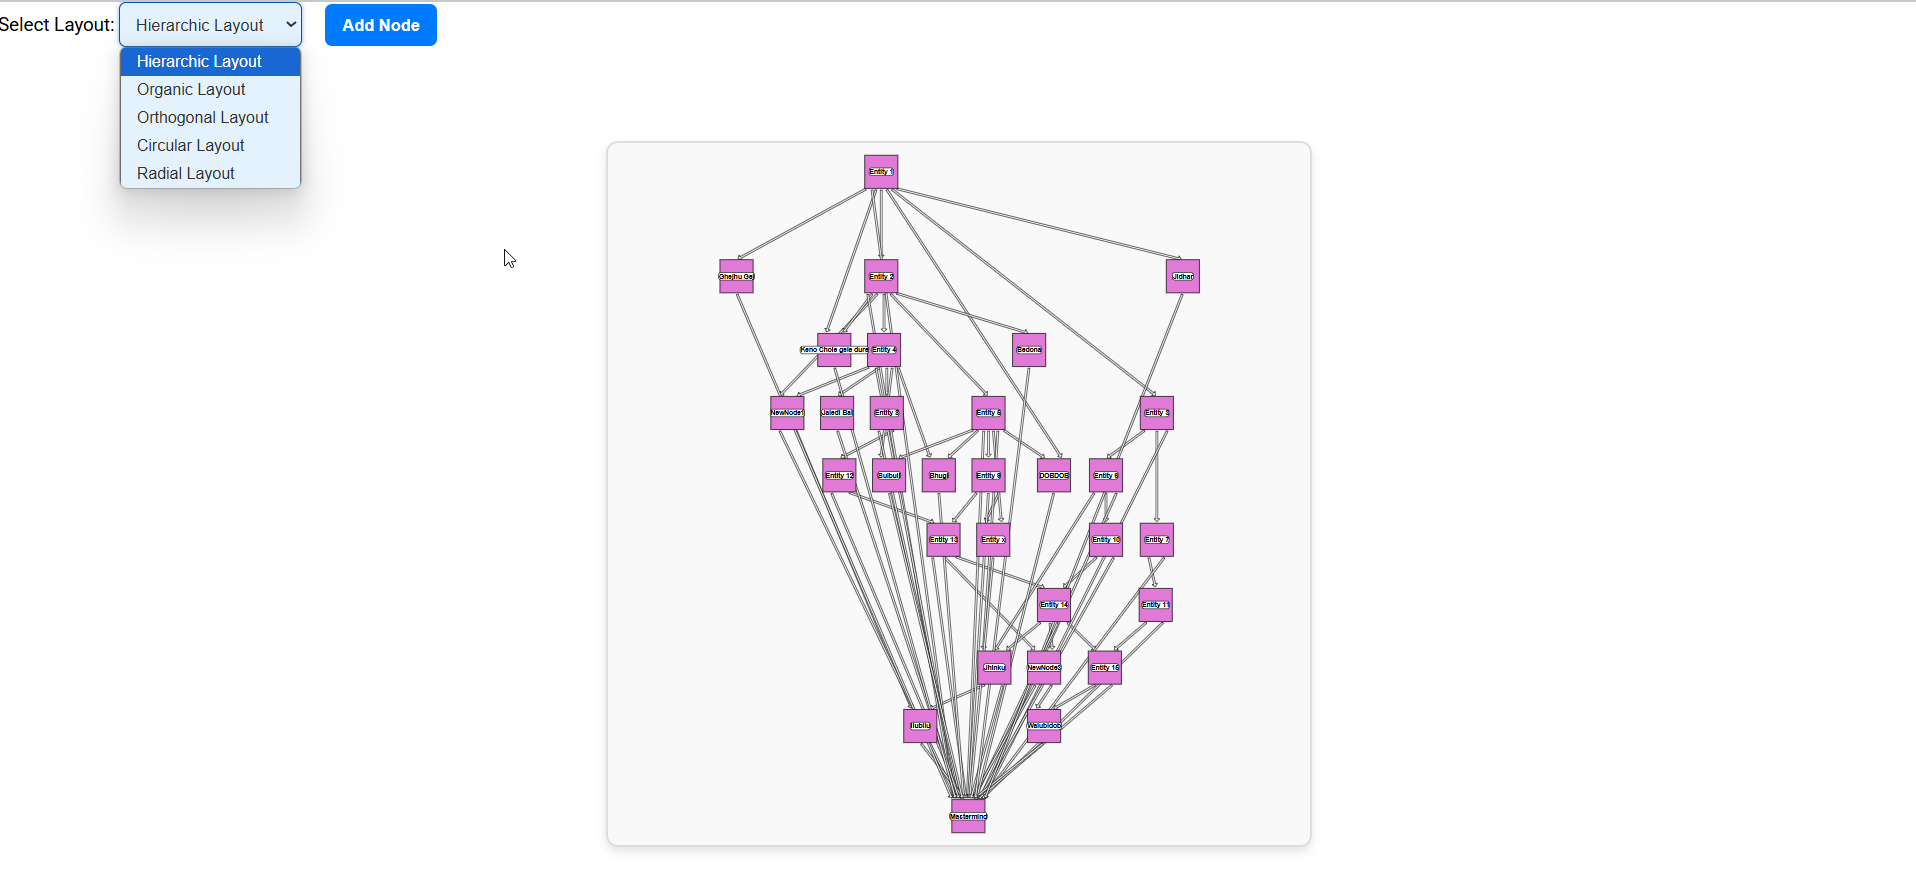
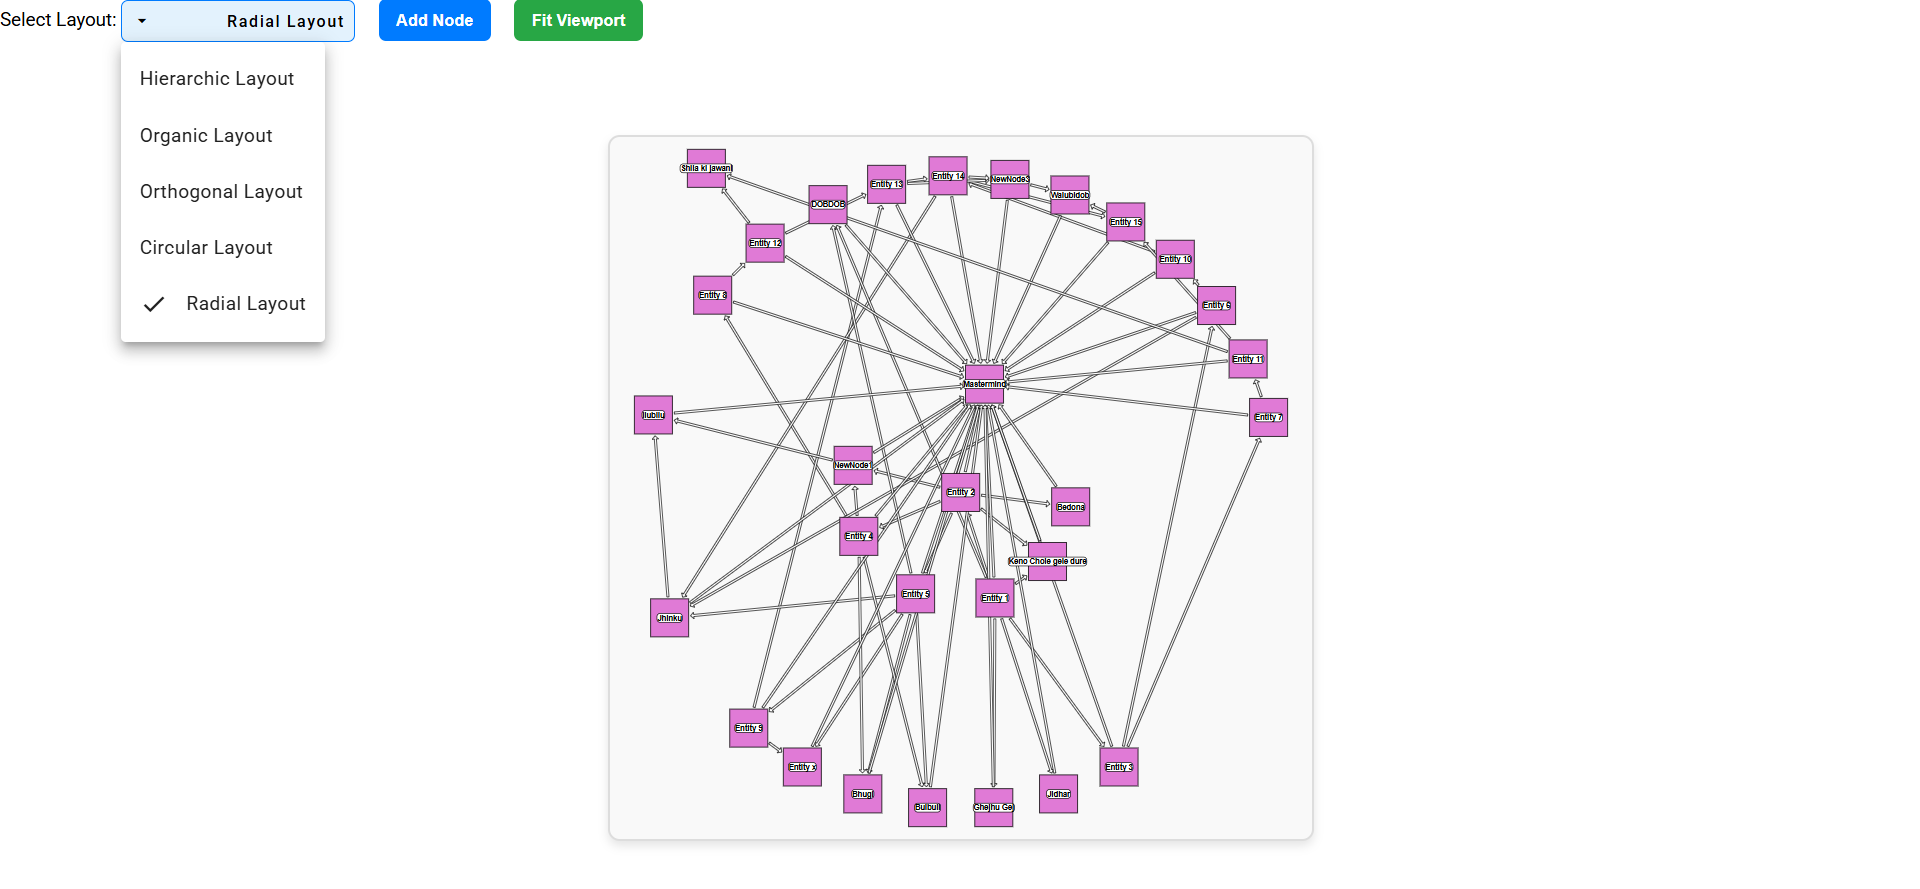
Used mat-menu instead of html select for layout selection. same layout selection now works.

diff --git a/client/src/app/graph-manipulation/graph-manipulation.component.ts b/client/src/app/graph-manipulation/graph-manipulation.component.ts
@@ -7,11 +7,21 @@ import { MatDialog, MatDialogRef } from '@angular/material/dialog';
 import { AddNewNodeDialogComponent } from '../add-new-node-dialog/add-new-node-dialog.component';
 import { MatDialogComponent } from '../delete-nodes-dialog/delete-nodes-dialog.component';
 import { CircularLayout, HierarchicLayout, OrganicLayout, OrthogonalLayout, RadialLayout } from 'yfiles';
+import { CommonModule } from '@angular/common';
+import { MatMenuModule } from '@angular/material/menu';
+import { MatButtonModule } from '@angular/material/button';
+import { MatIconModule } from '@angular/material/icon';
 
 @Component({
   selector: 'app-graph-manipulation',
   standalone: true,
-  imports: [FormsModule],
+  imports: [
+    FormsModule, 
+    CommonModule,
+    MatMenuModule,
+    MatButtonModule,
+    MatIconModule
+  ],
   templateUrl: './graph-manipulation.component.html',
   styleUrl: './graph-manipulation.component.css'
 })
@@ -21,6 +31,13 @@ export class GraphManipulationComponent implements OnInit, OnDestroy {
   layoutAlgorithmString: string = 'HierarchicLayout';
   nodes: Node[] = [];
   graphId = "67c4188a8b14961644089122";
+  layoutOptions = [
+    { label: 'Hierarchic Layout', value: 'HierarchicLayout' },
+    { label: 'Organic Layout', value: 'OrganicLayout' },
+    { label: 'Orthogonal Layout', value: 'OrthogonalLayout' },
+    { label: 'Circular Layout', value: 'CircularLayout' },
+    { label: 'Radial Layout', value: 'RadialLayout' }
+  ]
 
   constructor(
     private apiCallsService: ApiCallsService,
@@ -94,6 +111,16 @@ export class GraphManipulationComponent implements OnInit, OnDestroy {
 
   forceLayoutChange() {
     this.setLayoutAlgorithm(this.layoutAlgorithmString);
+  }
+
+  getSelectedLayoutLabel(): string {
+    const selectedOption = this.layoutOptions.find(option => option.value === this.layoutAlgorithmString);
+    return selectedOption ? selectedOption.label : 'Select Layout';
+  }
+
+  selectLayout(layoutValue: string) {
+    this.layoutAlgorithmString = layoutValue;
+    this.forceLayoutChange();
   }
 
   setLayoutAlgorithm(layoutType: string): void {

diff --git a/client/src/app/graph-manipulation/graph-manipulation.component.css b/client/src/app/graph-manipulation/graph-manipulation.component.css
@@ -7,6 +7,41 @@
   font-family: Arial, sans-serif;
 }
 
+/* Material button styling for layout dropdown */
+.layout-button {
+  padding: 10px;
+  min-width: 200px; /* Increased width to accommodate layout names */
+  font-size: 14px;
+  border-radius: 6px;
+  border: 1px solid #007BFF;
+  background-color: #e3f2fd;
+  color: #333;
+  cursor: pointer;
+  outline: none;
+  transition: all 0.3s ease;
+  text-align: left;
+  justify-content: space-between;
+}
+
+.layout-button:hover {
+  background-color: #d1e9ff;
+}
+
+/* Style for the material menu panel */
+::ng-deep .mat-menu-panel {
+  min-width: 200px !important;
+  border-radius: 6px;
+  box-shadow: 0 4px 10px rgba(0, 0, 0, 0.2);
+}
+
+/* Style for menu items */
+::ng-deep .mat-menu-item {
+  display: flex;
+  justify-content: space-between;
+  align-items: center;
+  font-size: 14px;
+  height: 40px;
+}
 
 /* Fit viewport button */
 #fitViewport {
@@ -36,30 +71,8 @@
   justify-content: center;
 }
 
-/* Select Dropdown */
-select {
-  padding: 10px;
-  font-size: 14px;
-  border-radius: 6px;
-  border: 1px solid #007BFF;
-  background-color: #e3f2fd;
-  color: #333;
-  cursor: pointer;
-  outline: none;
-  transition: all 0.3s ease;
-}
-
-select:hover {
-  background-color: #d1e9ff;
-}
-
-select:focus {
-  border-color: #0056b3;
-  box-shadow: 0 0 5px rgba(0, 91, 187, 0.5);
-}
-
 /* Button Styling */
-button {
+button:not(.layout-button):not([mat-menu-item]) {
   padding: 10px 15px;
   font-size: 14px;
   font-weight: bold;
@@ -72,11 +85,11 @@ button {
   margin-left: 20px;
 }
 
-button:hover {
+button:not(.layout-button):not([mat-menu-item]):hover {
   background-color: #0056b3;
 }
 
-button:active {
+button:not(.layout-button):not([mat-menu-item]):active {
   background-color: #00408a;
 }
 
@@ -85,4 +98,9 @@ button:active {
   display: flex;
   flex-direction: column;
   align-items: center;
+}
+
+/* Position the check icon properly in menu items */
+::ng-deep .mat-menu-item .mat-icon {
+  margin-left: 8px;
 }

diff --git a/client/src/app/graph-manipulation/graph-manipulation.component.html b/client/src/app/graph-manipulation/graph-manipulation.component.html
@@ -1,19 +1,19 @@
 <div>
   <label>Select Layout: </label>
-  <select
-    [(ngModel)]="layoutAlgorithmString"
-    (change)="forceLayoutChange()"
-  >
-    <option value="HierarchicLayout" selected>Hierarchic Layout</option>
-    <option value="OrganicLayout">Organic Layout</option>
-    <option value="OrthogonalLayout">Orthogonal Layout</option>
-    <option value="CircularLayout">Circular Layout</option>
-    <option value="RadialLayout">Radial Layout</option>
-  </select>
+  <button mat-button class="layout-button" [matMenuTriggerFor]="layoutMenu">
+    {{ getSelectedLayoutLabel() }} <mat-icon>arrow_drop_down</mat-icon>
+  </button>
+  <mat-menu #layoutMenu="matMenu">
+    <button
+      mat-menu-item
+      *ngFor="let option of layoutOptions"
+      (click)="selectLayout(option.value)"
+    >
+      {{ option.label }}
+      <mat-icon *ngIf="layoutAlgorithmString === option.value">check</mat-icon>
+    </button>
+  </mat-menu>
   <button (click)="openAddNodeDialog()">Add Node</button>
   <button id="fitViewport" (click)="fitViewport()">Fit Viewport</button>
 </div>
 <div id="graphComponent"></div>
-<div>
-  
-</div>

diff --git a/api/obj/Debug/net8.0/api.AssemblyInfo.cs b/api/obj/Debug/net8.0/api.AssemblyInfo.cs
@@ -13,7 +13,7 @@ using System.Reflection;
 [assembly: System.Reflection.AssemblyCompanyAttribute("api")]
 [assembly: System.Reflection.AssemblyConfigurationAttribute("Debug")]
 [assembly: System.Reflection.AssemblyFileVersionAttribute("1.0.0.0")]
-[assembly: System.Reflection.AssemblyInformationalVersionAttribute("1.0.0+233b42e8181f824d6a55caed3256fed094b5abca")]
+[assembly: System.Reflection.AssemblyInformationalVersionAttribute("1.0.0+5ca6833f5e0aee35ef327912f1146608b52f70aa")]
 [assembly: System.Reflection.AssemblyProductAttribute("api")]
 [assembly: System.Reflection.AssemblyTitleAttribute("api")]
 [assembly: System.Reflection.AssemblyVersionAttribute("1.0.0.0")]

diff --git a/Readme.md b/Readme.md
@@ -25,6 +25,7 @@ Structures nodes hierarchically, useful for tree-like data visualization.
 
 Allows adding a node along with its parent nodes dynamically.
 ![Add Node With Parents](Screenshots/AddNodewithParents.png)
+![Add Node With Parents 2](Screenshots/AddNodewithParents2.png)
 
 
 **Delete Node**
